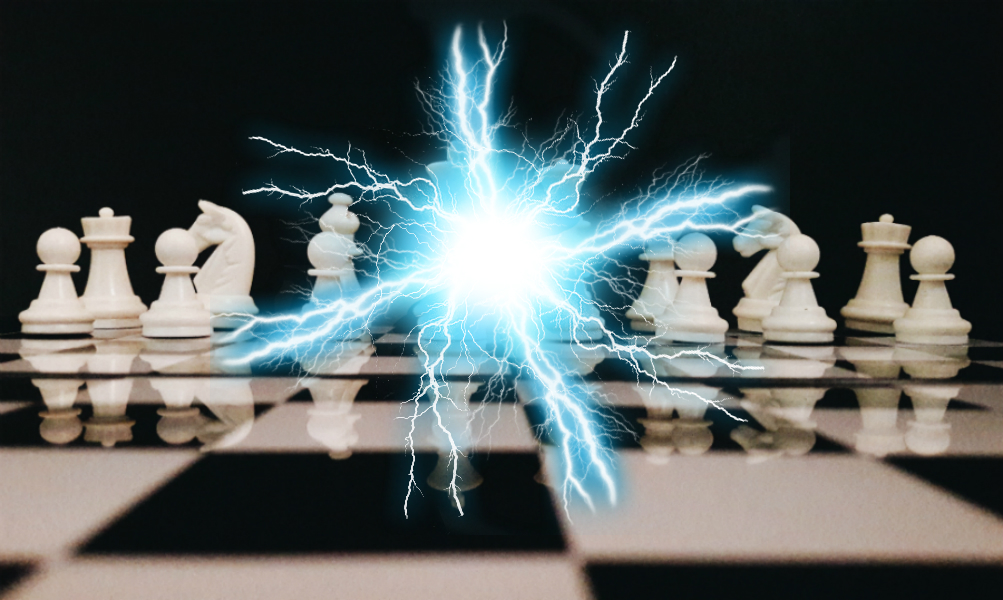
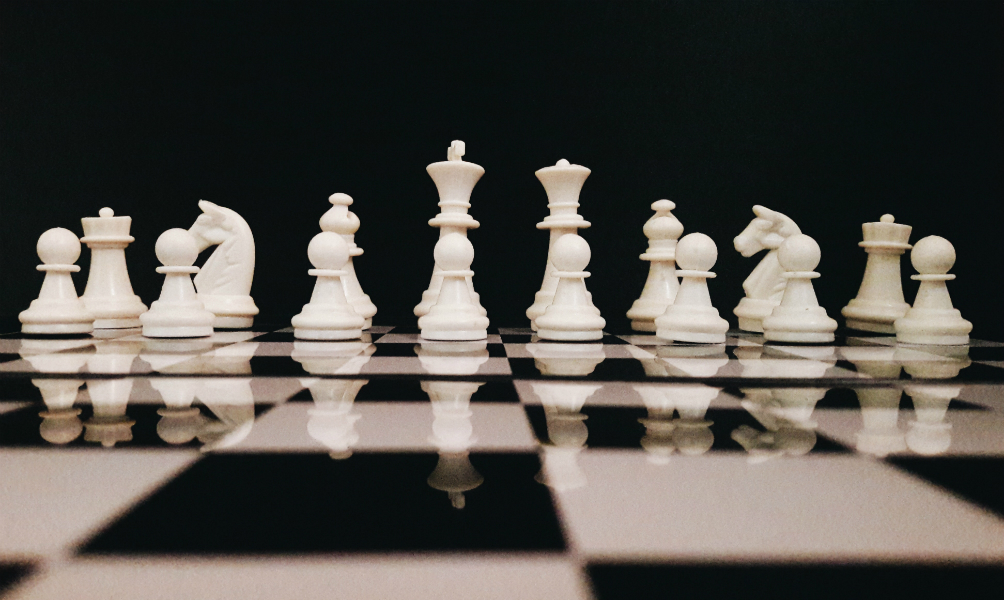
RODANDO

Changed region(s): [[0.1854, 0.03, 0.8036, 0.87]]

diff --git a/src/IU.py b/src/IU.py
@@ -44,6 +44,7 @@ BRANCO = [255,255,255]
 CINZA = [100, 100, 100] # [139,69,19]
 AMARELO = [255,255,0]
 VERDE = [0,255,0]
+PRETO = [0,0,0]
 BRANCAS = 1
 PRETAS = 2
 
@@ -61,7 +62,6 @@ TELA_FIM2 = 9;
 
 #imagens de fundo
 imagem_menu1 = pygame.image.load("Ativos/menu_tela1.jpg")
-imagem_menu2 = pygame.image.load("Ativos/menu_tela2.jpg")
 imagem_opcoes = pygame.image.load("Ativos/opcoes_menu.png")
 imagem_tabuleiro = pygame.image.load("Ativos/tabuleiromadeira.png")
 
@@ -129,12 +129,10 @@ def desenha_menu1(tela):
     pygame.display.flip()  # Por algum motivo isso é necessário quando se usa um draw no pygame
     pygame.display.update() # atualiza a tela com tudo que foi feito
 
-#FUNÇÃO DESENHA_MENU2 PRECISA SER ORGANIZADAAAAAAA
 def desenha_menu2(tela, estado):
     # Definido imagem de fundo da interface
     cor_texto = (255, 69, 0) #Cinza quase Branco
     cor_fundo = None #(115, 117, 117) #Cor estranha
-    tela.blit(imagem_menu2, (0, 0)) #Define o background como imagem_menu2
     pygame.display.flip()  # Por algum motivo isso é necessário quando se usa um draw no pygame
     pygame.display.update() # atualiza a tela com tudo que foi feito
     fonte_texto = pygame.font.Font("Ativos/Crackvetica.ttf", 60)
@@ -166,11 +164,8 @@ def desenha_menu2(tela, estado):
         tela.blit(texto_opcoes, rect_opcoes)
         tela.blit(texto_sair, rect_sair)
     pygame.display.update()
-    #jogar = [239, 64] opcoes = [189, 64] sair = [159, 64]
 
-#FUNÇÃO DESENHA_MENU2 PRECISA SER ORGANIZADAAAAAAA
 def desenha_opcoes(tela):
-    # Definido imagem de fundo da interface
     cor_texto = (255, 69, 0) #Cinza quase Branco
     cor_fundo = None #(115, 117, 117) #Cor estranha
     tela.blit(imagem_opcoes, (0, 0)) #Define o background como imagem_opcoes
@@ -190,7 +185,6 @@ def desenha_opcoes(tela):
     tela.blit(texto_dificuldade, rect_dificuldade)
     tela.blit(texto_voltar, rect_voltar)
     pygame.display.update()
-    #jogar = [239, 64] opcoes = [189, 64] sair = [159, 64]
 
 def jogo_terminado(tela, frase):
     # Definido imagem de fundo da interface
@@ -203,21 +197,7 @@ def jogo_terminado(tela, frase):
     tela.blit(texto_vitoria, rect_vitoria)
     # jogar = [239, 64] opcoes = [189, 64] sair = [159, 64]
 
-#função da tela inicial -> efeito de eletricidade
-def eletricidade(largura, altura, tela):
-    eletricidade = pygame.Surface((largura, altura))
-    eletricidade.fill((255,255,255))
-    pygame.mixer.music.load("Ativos/electricshock.mp3")
-    pygame.mixer.music.play(-1)
-    for alpha in range(0, 300):
-        eletricidade.set_alpha(alpha)
-        desenha_menu1(tela)
-        tela.blit(eletricidade, (0,0))
-        pygame.display.update()
-    pygame.mixer.music.stop()
-    pygame.mixer.music.load("Ativos/thunder2.mp3")
-    pygame.mixer.music.play(0)
-    desenha_menu2(tela, 1)
+
 
 def desenha_tabuleiro(tela, estado, mensagem):
     tela.blit(imagem_tabuleiro, (0, 0))
@@ -398,7 +378,7 @@ def interface():
     running = True
     global TURNO
     global VS_IA
-    VS_IA = False
+    VS_IA = True
 
     while running:
         key = pygame.key.get_pressed()
@@ -407,7 +387,7 @@ def interface():
         for event in pygame.event.get():
             if event.type == pygame.QUIT:
                 running = False
-            if estado == TELA_INTRO or estado == TELA_MENU: #estado 3 precisa ser removido daqui ou acertado
+            if estado == TELA_INTRO or estado == TELA_MENU:
                 if event.type == pygame.MOUSEBUTTONUP:
                     pos = pygame.mouse.get_pos()
                     print(pos) #usado para debugar
@@ -751,7 +731,6 @@ def interface():
 
             if estado == TELA_INICIO:
                 if event.type == pygame.KEYDOWN or event.type == pygame.MOUSEBUTTONUP or key[pygame.K_v]:
-                    eletricidade(LARGURA, ALTURA, tela)
                     tab=Tabuleiro()
                     computador=IA(tab)
                     estado = TELA_MENU
@@ -760,8 +739,4 @@ def interface():
     pygame.display.quit()
     pygame.quit()
 
-<<<<<<< HEAD
 interface()
-=======
-interface()
->>>>>>> 3010ed60ff473a654b3d0f3484858aec57acf3b5
